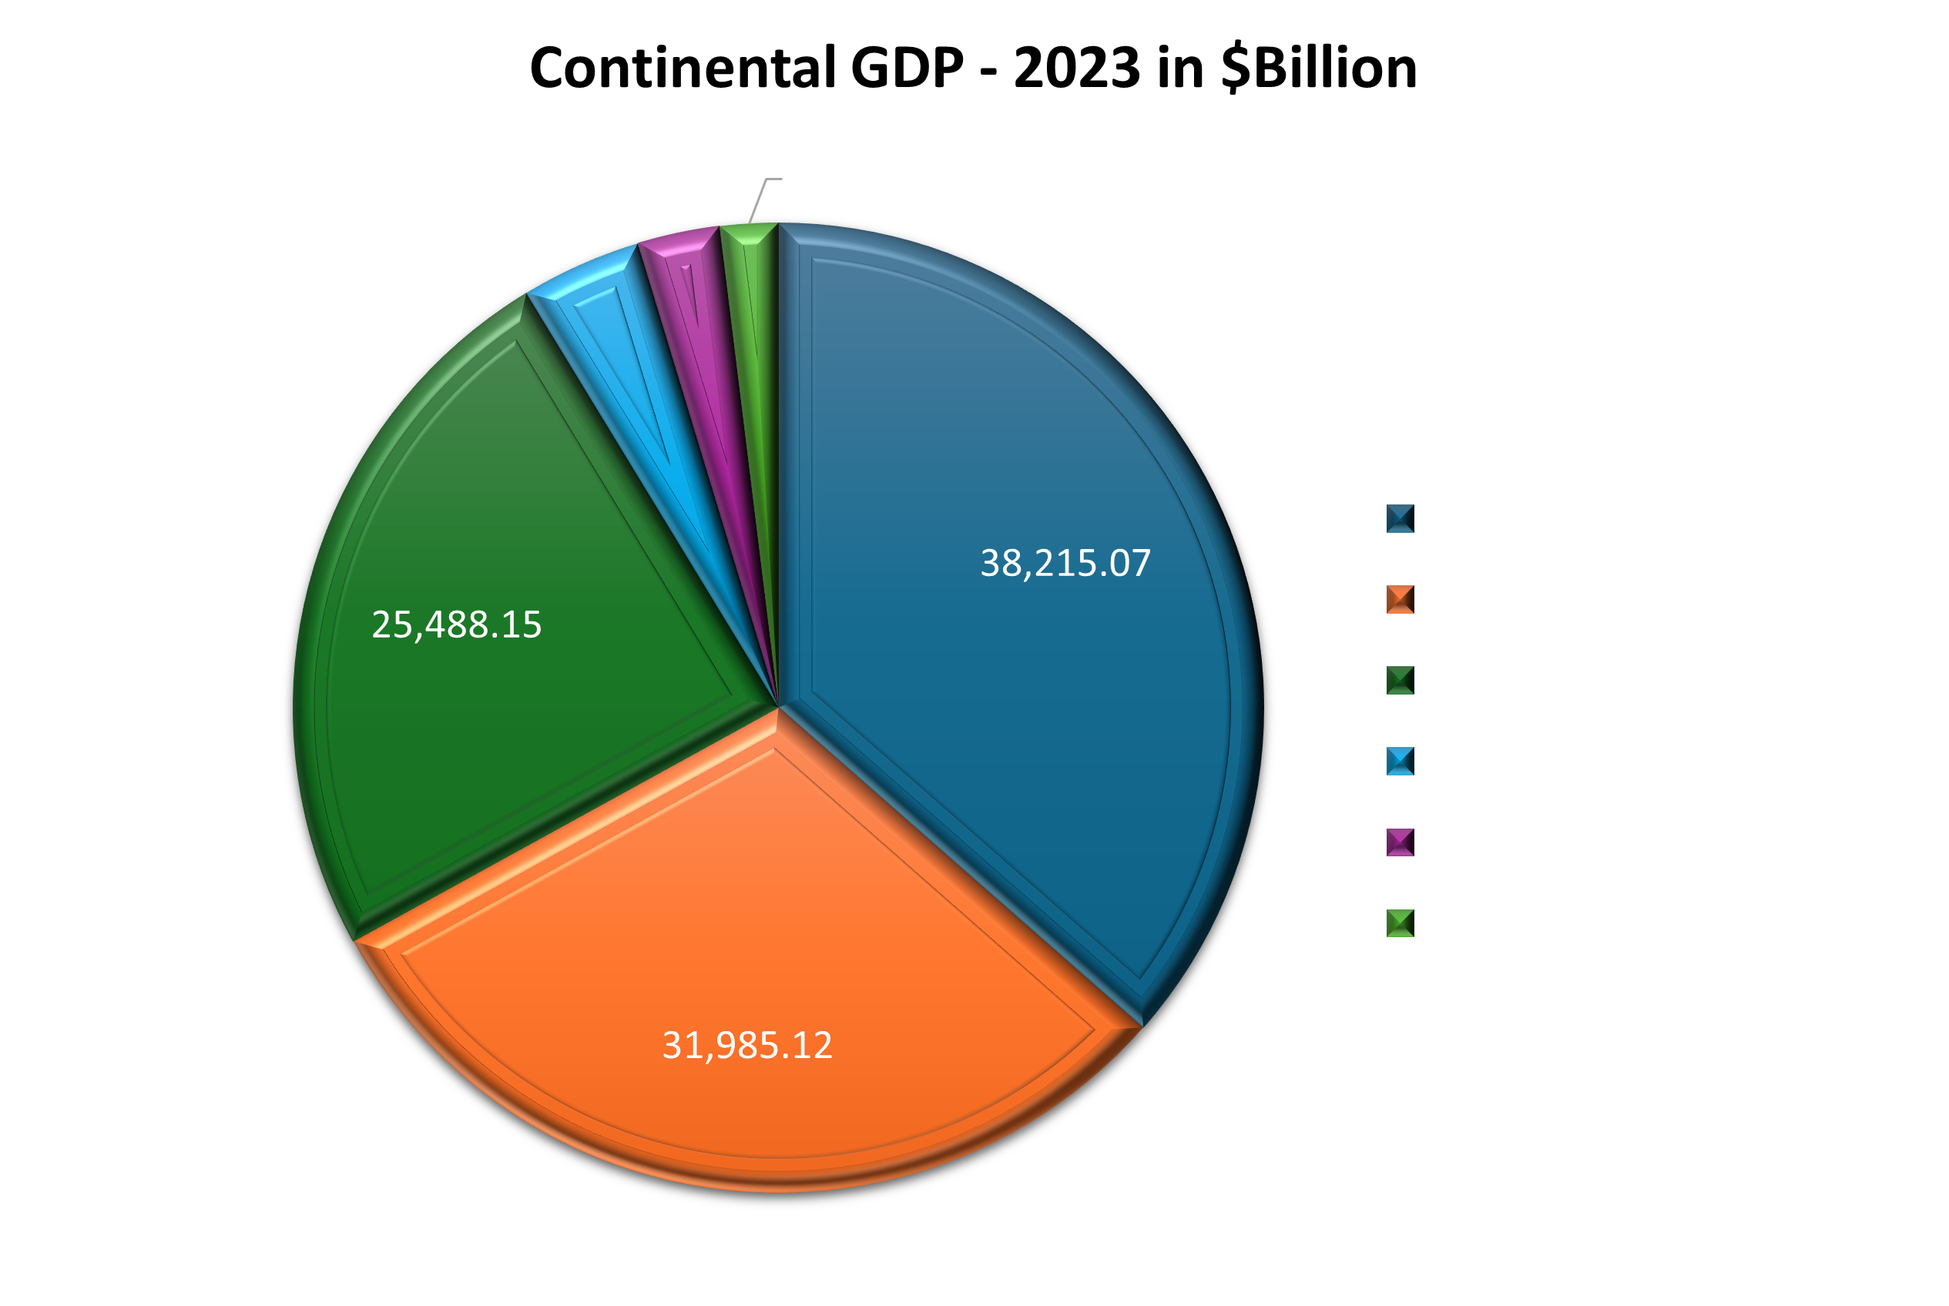
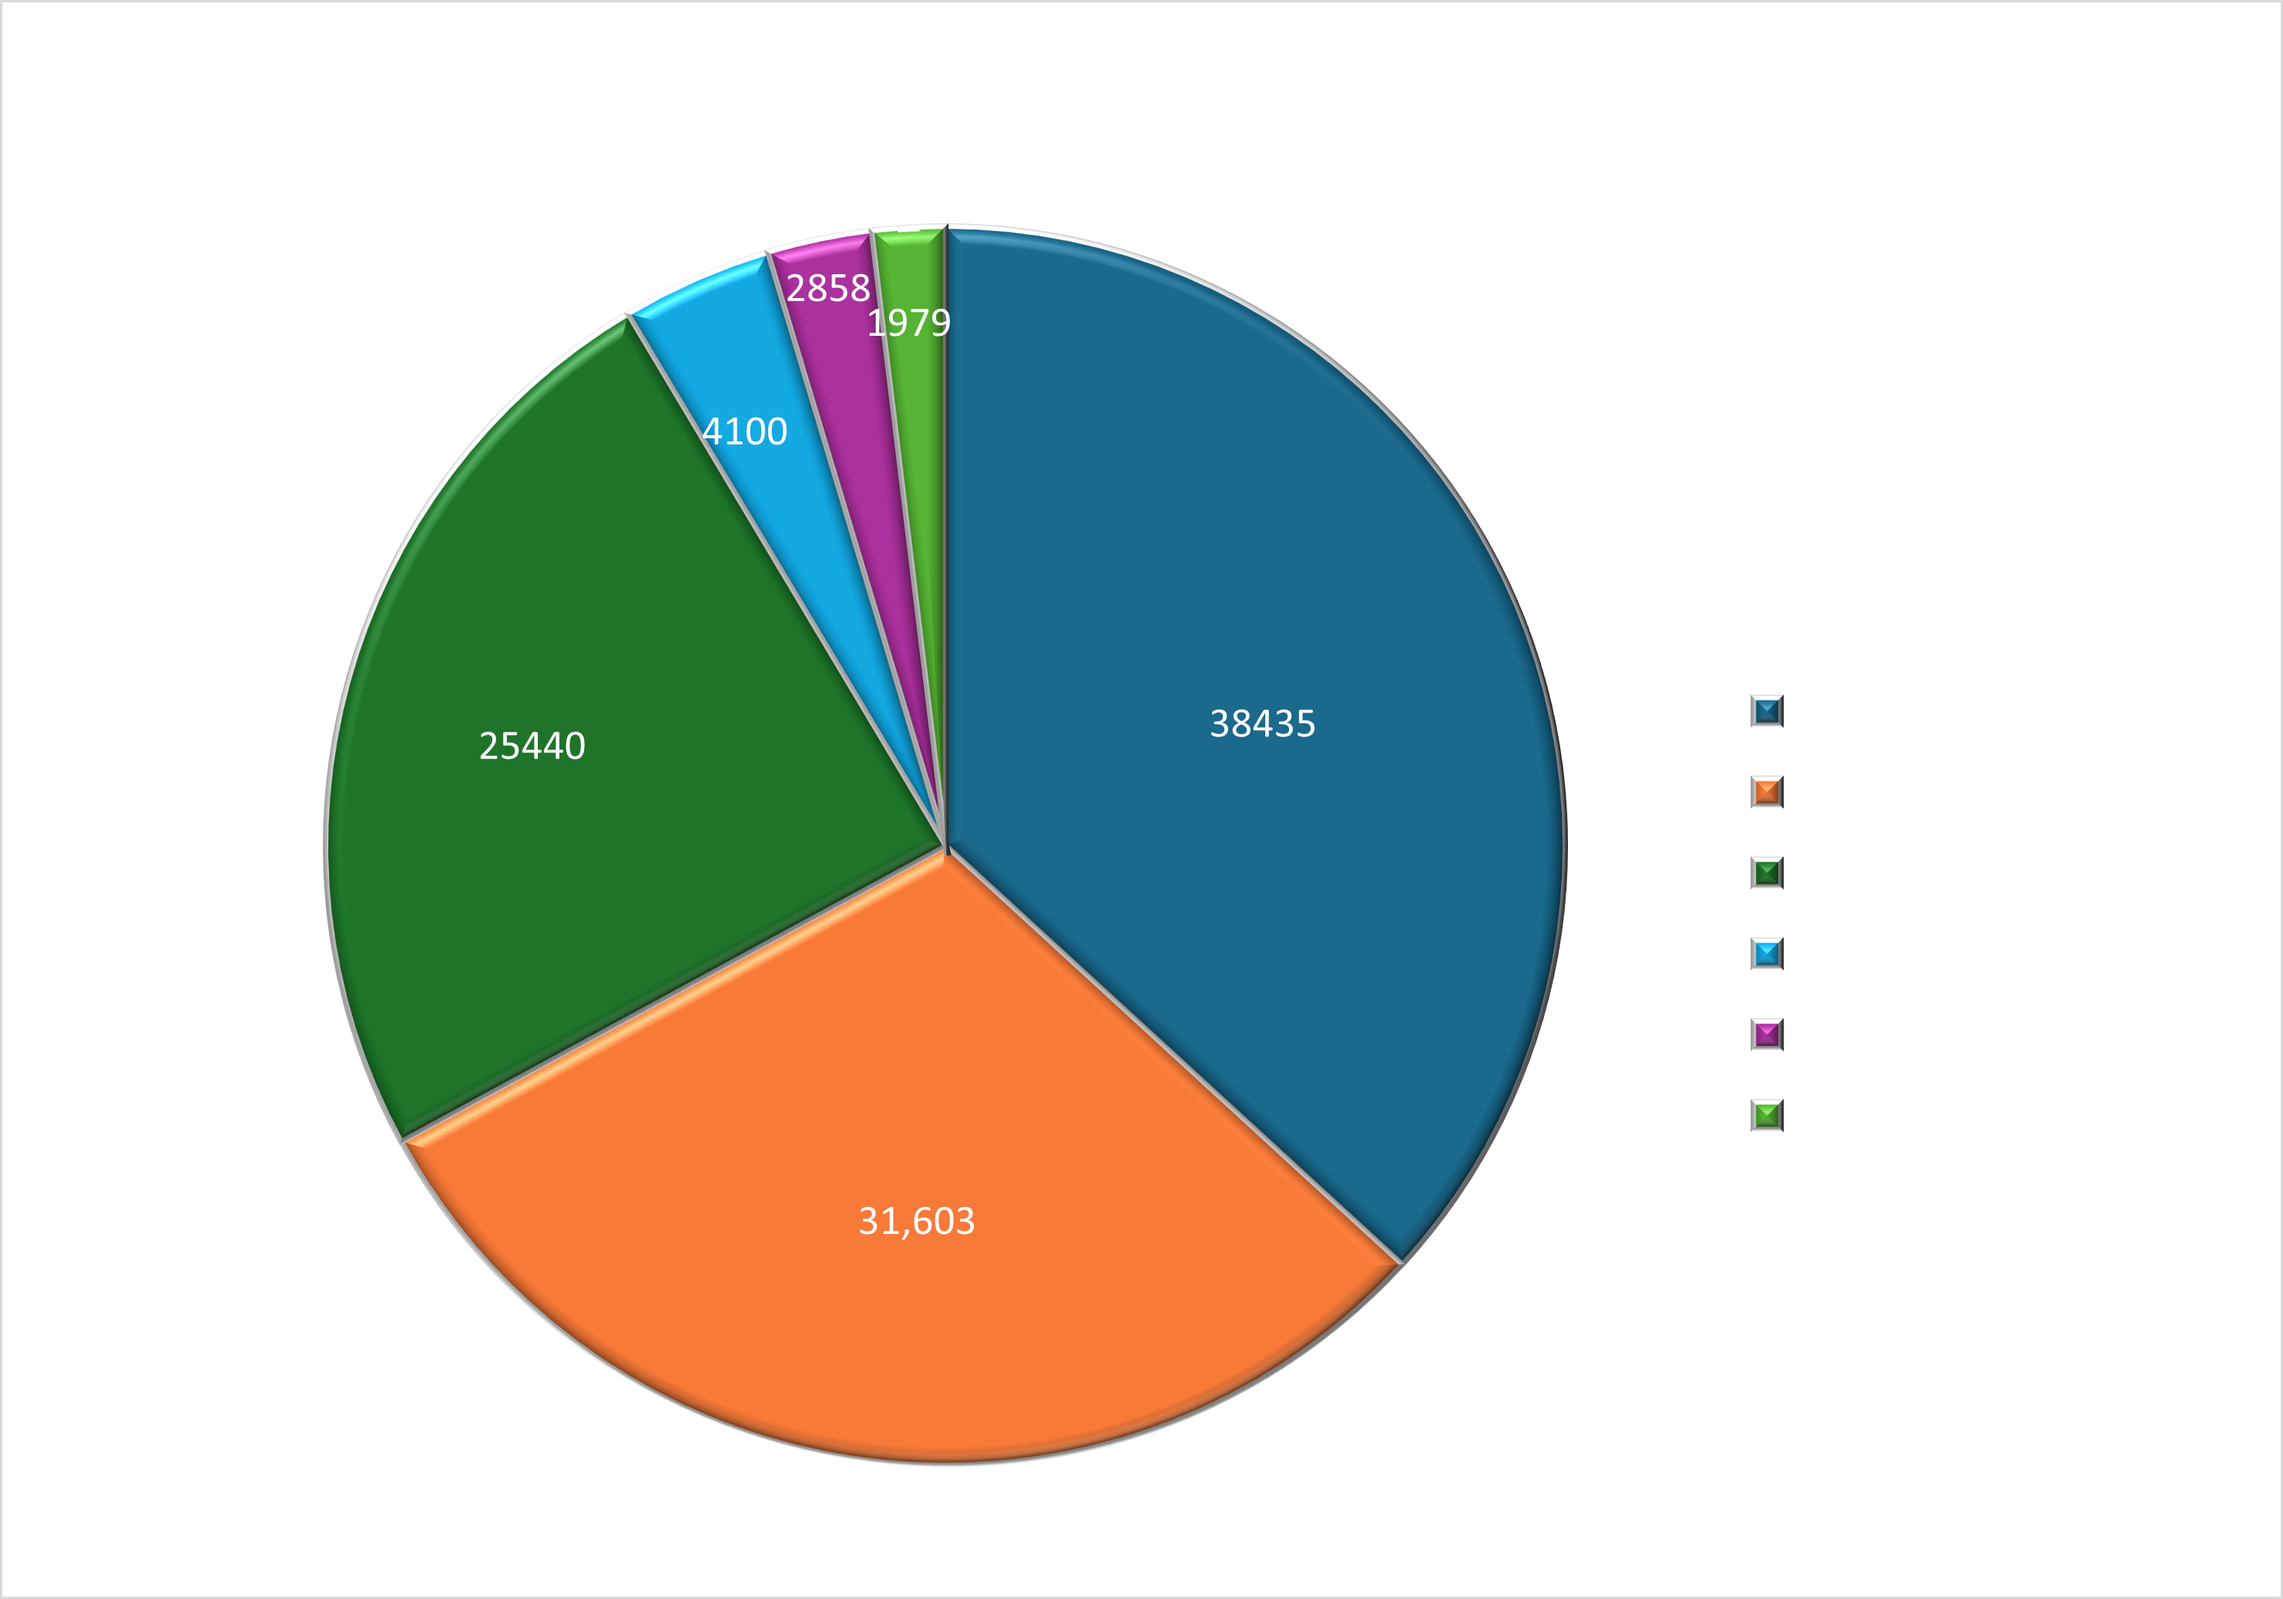
newupdates

diff --git a/index.html b/index.html
@@ -10,10 +10,10 @@
     <link rel="stylesheet" href="css/leaflet.css">
     <link rel="stylesheet" href="css/style.css">
 </head>
-<body style="background-color: rgb(0, 0, 0);">
+<body style="background-color: #2f2c2c;">
 
     <div class="container-fluid" style="text-align: center;">
-        <div class="row">
+          <div class="row">
             <div class="col-lg-6">
                 <div id="map">
                     <div class="Title">
@@ -27,14 +27,14 @@
                 </div>
                 
             </div>
-            <div class="col-lg-6" >
+            <div class="col-lg-6" style="text-align: center;">
                 <div style="text-align: center;">
                     <h2 style="color: white;">U.S GPD from 1990 - 2023</h2>
                     <canvas id="gdplinechart"></canvas>
                 </div> <br><br><br>
-                <div class="pichartt">
-                    <h2 style="color: white;">Continental GDP in $Billion - 2023</h2>
-                    <img src="data/Regional_GPD.png" alt="worldGDP" class="pichart">
+                <div style="text-align: center;">
+                    <h2 style="color: rgb(254, 253, 253);">Continental GDP in $Billion - 2023</h2>
+                    <img src="data/Regional_GPD1.png" alt="worldGDP" class="pichart">
                 </div>
             </div>
 

diff --git a/css/style.css b/css/style.css
@@ -6,7 +6,7 @@
 }
 
 .leaflet-container{
-    background-color: #000000;
+    background-color: #2f2c2c;
 }
 .legend {
     color: #423e3e;
@@ -95,7 +95,8 @@
 }
 
 .leaflet-bottom{
-    margin-bottom: 65px;
+    margin-bottom: 15px;
+    margin-right: 75px;
 }
 
 .leaflet-popup-tip{
@@ -114,7 +115,7 @@
 #gdplinechart{
 
     border: 0.5px solid rgb(98, 98, 95);
-    background-color: rgb(1, 1, 1);
+    background-color: #2f2c2c;
   
 }
 
@@ -129,8 +130,7 @@ canvas {
 
 }
 
-.pichart{
-    width: 475px;
-    height: 320px;
-
+img {
+    width: 100%;
+    height: auto;
 }

diff --git a/js/script.js b/js/script.js
@@ -1,15 +1,15 @@
  var crs42303 = new L.Proj.CRS('EPSG:42303',
             '+proj=aea +lat_1=29.5 +lat_2=45.5 +lat_0=23 +lon_0=-96 +x_0=0 +y_0=0 +datum=WGS84 +units=m +no_defs', {
             resolutions: [8192, 4096, 2048, 1024, 512, 256, 128, 64, 32, 16, 8, 4, 2, 1],
-            origin: [0, 0]
+            origin: [0,0]
         });
 
 
 var map = L.map('map', {
   crs: crs42303,
-  maxZoom: 20,
+  maxZoom: 18,
 	minZoom: 0,
-}).setView([38, -97.0], 0);
+}).setView([37.8, -96], 0);
 
 
 
